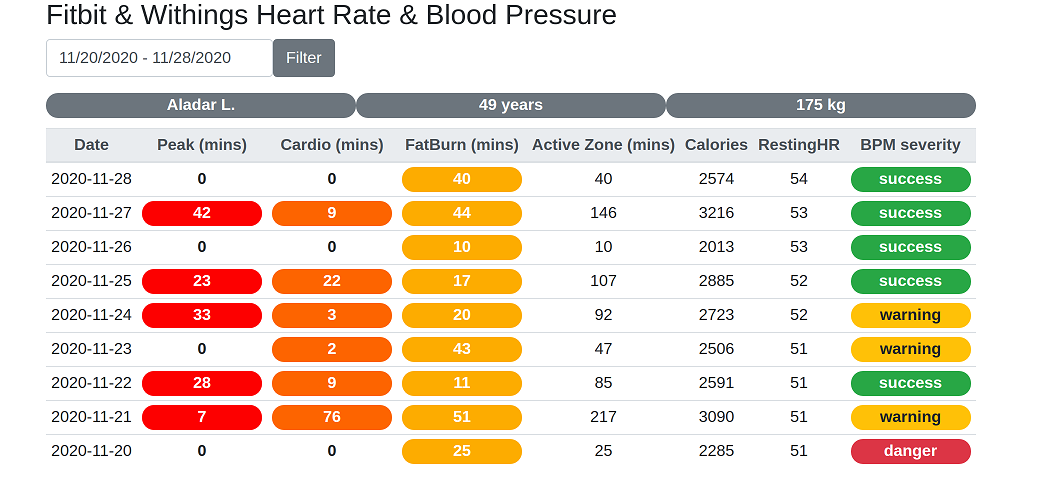
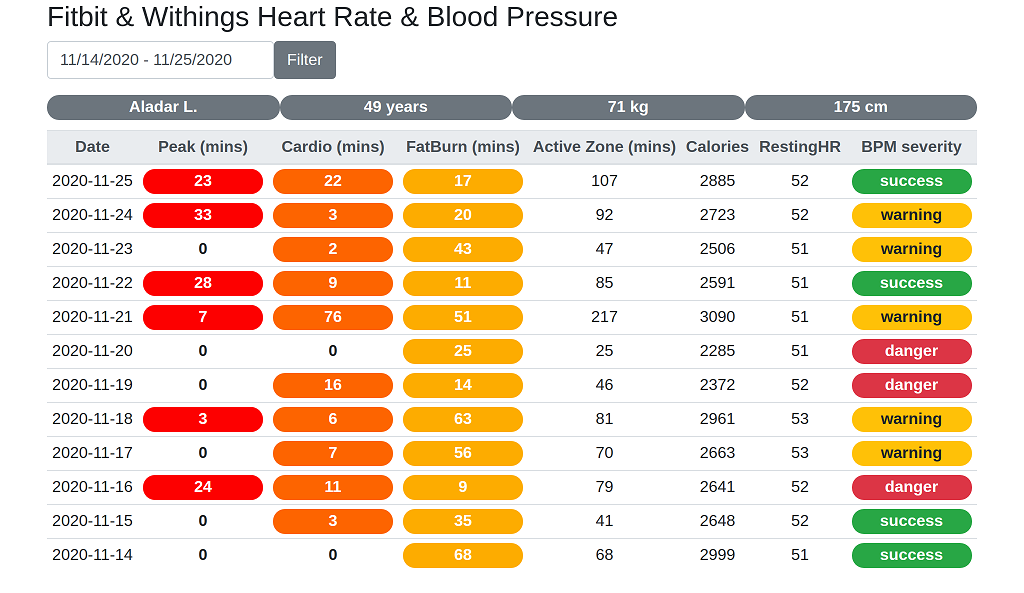
:books: More profile data

diff --git a/src/app/dashboard/components/fw-user/fw.user.component.ts b/src/app/dashboard/components/fw-user/fw.user.component.ts
@@ -25,6 +25,12 @@ export class FWUserComponent {
 
   getWeight(): number {
     if (!this.isEmpty()) {
+      return this.user.weight;
+    }
+  }
+
+  getHeight(): number {
+    if (!this.isEmpty()) {
       return this.user.height;
     }
   }

diff --git a/src/app/dashboard/components/fw-user/fw.user.component.html b/src/app/dashboard/components/fw-user/fw.user.component.html
@@ -9,5 +9,8 @@
     <div class="col badge badge-pill badge-secondary user-label">
       {{getWeight()}} kg
     </div>
+    <div class="col badge badge-pill badge-secondary user-label">
+      {{getHeight()}} cm
+    </div>
   </div>
 </div>
